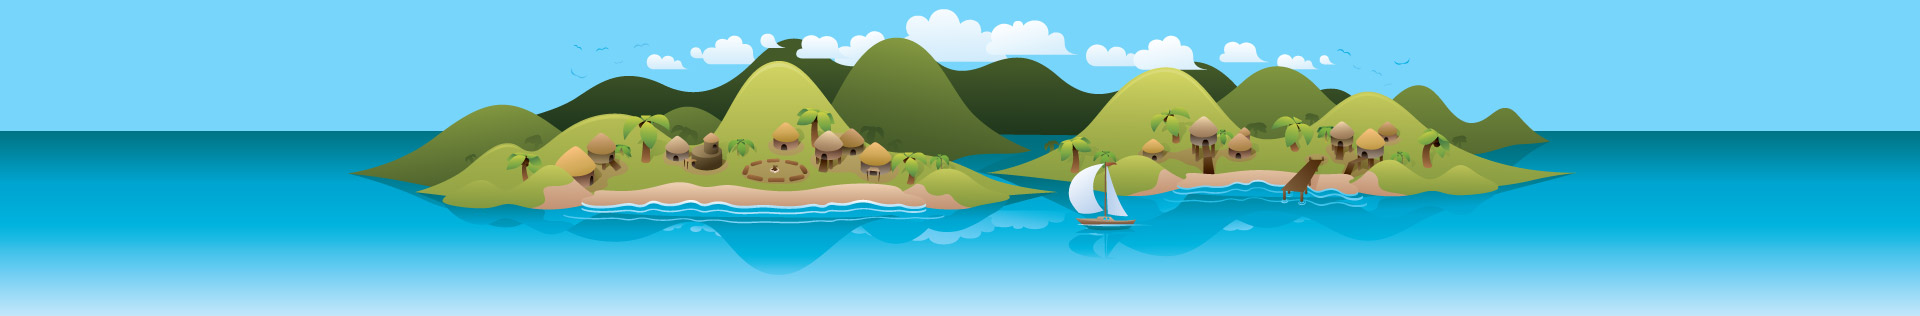
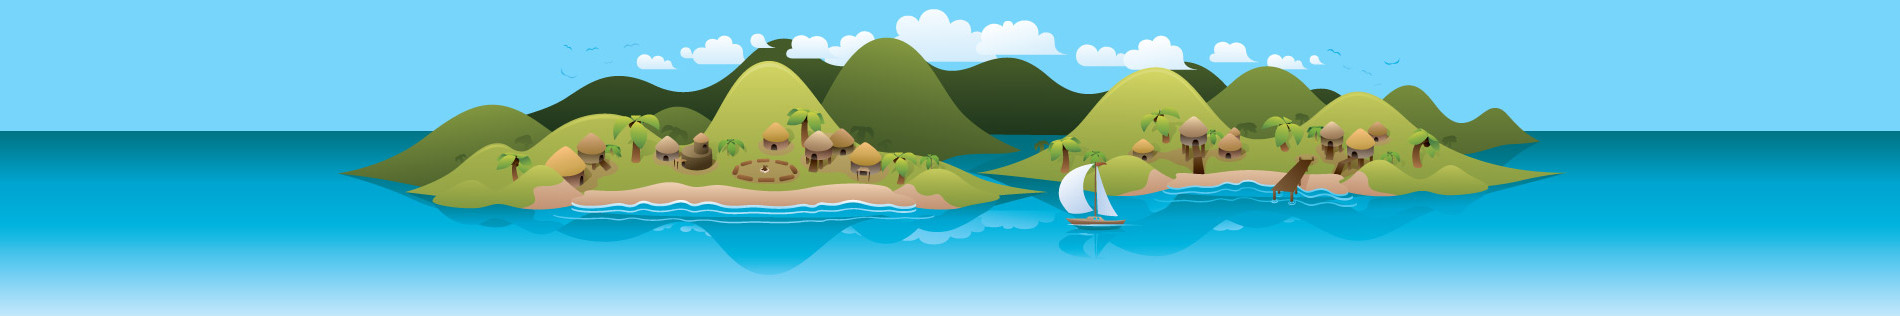
making the background css more cross browser compatible

diff --git a/stylesheets/application.css b/stylesheets/application.css
@@ -262,7 +262,7 @@
 	background: #f8f8d0;
 }
 
-.boat {
+#boat {
 	position: absolute;
 	bottom: 30px;
 	right: 0px;
@@ -311,17 +311,41 @@
 100% {right: 100%;}
 }
 
-html{
-	background: #77d5fb url('../images/bottom_bg.jpg') bottom center no-repeat;
-
-}
 body{
-	background: transparent url('../images/top_bg.png') top center no-repeat;
+	background-color: #77d5fb;
 	font-size: 16px;
 	margin: 0 0;
 	line-height: 17px;
+	width: 100%;
+	height: 100%;
+	overflow: hidden;
+}
 
+#clouds {
+	background-image: url(../images/top_bg.png);
+	position: absolute;
+	top: 0px;
+	height: 382px;
+	width: 100%;
+}
+#island {
+	position: absolute;
+	width: 1920px;
+	margin-left: -960px;
+	left: 50%;
+	bottom: 0px;
+	height: 316px;
+	background-image: url(../images/bottom_bg.jpg);
+}
+#sea {
+	position: absolute;
+	bottom: 0px;
+	width: 100%;
+	background-image: url(../images/bottom_bg_edge.jpg);
+	height: 316px;
+}
 
+#clouds {
 	animation-name:clouds;
 	animation-duration:30s;
 	animation-timing-function:ease-in-out;

diff --git a/index.html b/index.html
@@ -48,7 +48,11 @@
 		</script>  		
 	</head>
 	<body>
-		<img class="boat" src="images/boat.png" />
+		<div id="clouds"></div>
+		<div id="sea"></div>
+		<div id="island"></div>
+		<img id="boat" src="images/boat.png" />
+
 	    <div id="fb-root"></div>
 
 		<!-- TEMPLATES! -->
